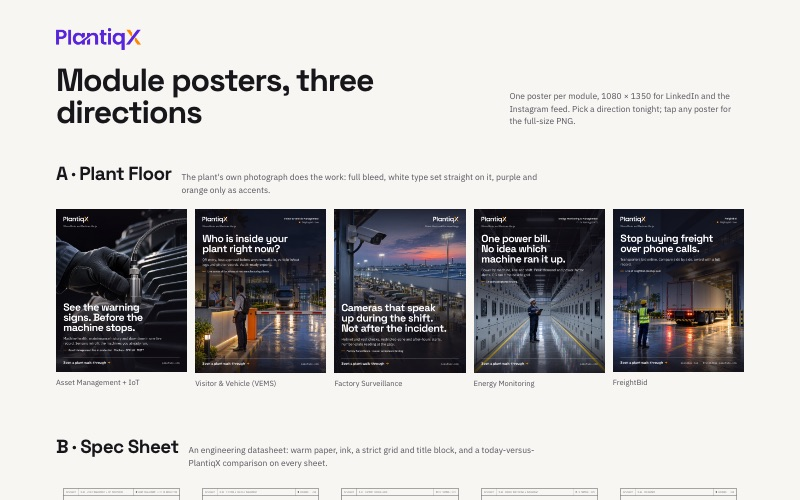
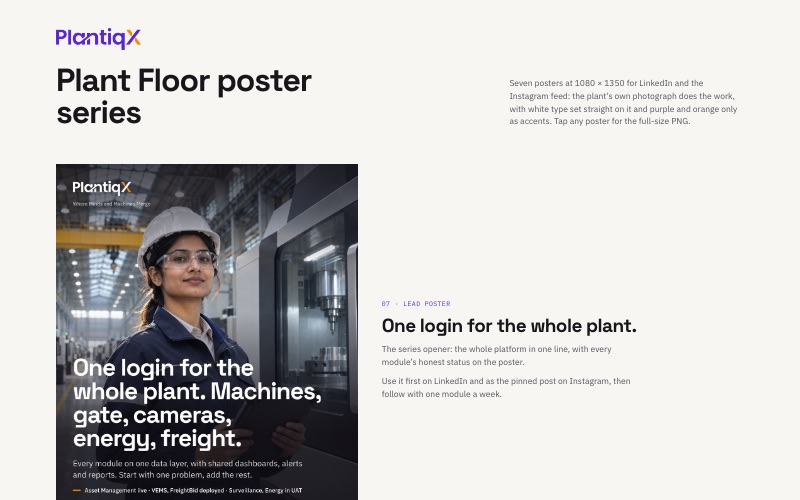
Posters: Plant Floor series only, add platform and Custom IoT posters

diff --git a/posters/index.html b/posters/index.html
@@ -3,7 +3,7 @@
 <head>
 <meta charset="utf-8">
 <meta name="viewport" content="width=device-width, initial-scale=1">
-<title>PlantiqX Poster Options</title>
+<title>PlantiqX Plant Floor Posters</title>
 <link rel="stylesheet" href="../fonts/fonts.css">
 <style>
 :root{--paper:#F7F6F2;--ink:#17161B;--steel:#55525C;--purple:#5925DC;--orange:#FF8700}
@@ -27,50 +27,44 @@ h2{font-family:"Space Grotesk",sans-serif;font-weight:700;font-size:clamp(26px,3
 footer{color:var(--steel);font-size:15px}
 @media (max-width:900px){.grid{grid-template-columns:repeat(3,minmax(0,1fr))}}
 @media (max-width:560px){.wrap{padding:36px 16px 64px}.grid{grid-template-columns:repeat(2,minmax(0,1fr));gap:12px}header{margin-bottom:48px}section{margin-bottom:64px}}
+.lead{display:grid;grid-template-columns:minmax(0,5fr) minmax(0,6fr);gap:48px;align-items:center;margin-bottom:72px}
+.lead a{display:block}.lead img{display:block;width:100%;height:auto;aspect-ratio:4/5;background:#E4E1DA}
+.lead h2{margin-bottom:14px}.lead p{color:var(--steel);max-width:52ch;margin-bottom:12px}
+.lead .k{font-family:"IBM Plex Mono",monospace;font-size:13px;letter-spacing:.06em;text-transform:uppercase;color:var(--purple);margin-bottom:14px;display:block}
+.grid{grid-template-columns:repeat(3,minmax(0,1fr));gap:28px 22px}
+.grid span b{display:block;color:var(--ink);font-weight:600;font-family:"Space Grotesk",sans-serif;font-size:17px;letter-spacing:-.01em}
+@media (max-width:900px){.lead{grid-template-columns:minmax(0,1fr);gap:24px}.grid{grid-template-columns:repeat(2,minmax(0,1fr))}}
+@media (max-width:560px){.grid{grid-template-columns:minmax(0,1fr)}}
 </style>
 </head>
 <body>
 <div class="wrap">
 <header>
   <div><img class="logo" src="../brand/original/plantiqx-logo-color.png" alt="PlantiqX">
-  <h1>Module posters, three directions</h1></div>
-  <p>One poster per module, 1080 × 1350 for LinkedIn and the Instagram feed. Pick a direction tonight; tap any poster for the full-size PNG.</p>
+  <h1>Plant Floor poster series</h1></div>
+  <p>Seven posters at 1080 × 1350 for LinkedIn and the Instagram feed: the plant’s own photograph does the work, with white type set straight on it and purple and orange only as accents. Tap any poster for the full-size PNG.</p>
 </header>
 
-<section>
-  <div class="opt"><h2>A · Plant Floor</h2><p>The plant's own photograph does the work: full bleed, white type set straight on it, purple and orange only as accents.</p></div>
-  <div class="grid">
-    <a href="png/A-1-asset.png"><img src="thumb/A-1-asset.jpg" loading="lazy" alt="Option A, Asset Management poster" loading="lazy"><span>Asset Management + IoT</span></a>
-    <a href="png/A-2-vems.png"><img src="thumb/A-2-vems.jpg" loading="lazy" alt="Option A, Visitor and Vehicle Management poster" loading="lazy"><span>Visitor &amp; Vehicle (VEMS)</span></a>
-    <a href="png/A-3-surveillance.png"><img src="thumb/A-3-surveillance.jpg" loading="lazy" alt="Option A, Factory Surveillance poster" loading="lazy"><span>Factory Surveillance</span></a>
-    <a href="png/A-4-energy.png"><img src="thumb/A-4-energy.jpg" loading="lazy" alt="Option A, Energy Monitoring poster" loading="lazy"><span>Energy Monitoring</span></a>
-    <a href="png/A-5-freightbid.png"><img src="thumb/A-5-freightbid.jpg" loading="lazy" alt="Option A, FreightBid poster" loading="lazy"><span>FreightBid</span></a>
-  </div>
+<section class="lead">
+  <a href="png/A-7-platform.png"><img src="thumb/A-7-platform.jpg" alt="Plant Floor poster: One login for the whole plant"></a>
+  <div><span class="k">07 · Lead poster</span><h2>One login for the whole plant.</h2>
+  <p>The series opener: the whole platform in one line, with every module’s honest status on the poster.</p>
+  <p>Use it first on LinkedIn and as the pinned post on Instagram, then follow with one module a week.</p></div>
 </section>
 
 <section>
-  <div class="opt"><h2>B · Spec Sheet</h2><p>An engineering datasheet: warm paper, ink, a strict grid and title block, and a today-versus-PlantiqX comparison on every sheet.</p></div>
+  <div class="opt"><h2>The modules</h2><p>One poster per module, each on its own premium plant photograph.</p></div>
   <div class="grid">
-    <a href="png/B-1-asset.png"><img src="thumb/B-1-asset.jpg" loading="lazy" alt="Option B, Asset Management poster" loading="lazy"><span>Asset Management + IoT</span></a>
-    <a href="png/B-2-vems.png"><img src="thumb/B-2-vems.jpg" loading="lazy" alt="Option B, Visitor and Vehicle Management poster" loading="lazy"><span>Visitor &amp; Vehicle (VEMS)</span></a>
-    <a href="png/B-3-surveillance.png"><img src="thumb/B-3-surveillance.jpg" loading="lazy" alt="Option B, Factory Surveillance poster" loading="lazy"><span>Factory Surveillance</span></a>
-    <a href="png/B-4-energy.png"><img src="thumb/B-4-energy.jpg" loading="lazy" alt="Option B, Energy Monitoring poster" loading="lazy"><span>Energy Monitoring</span></a>
-    <a href="png/B-5-freightbid.png"><img src="thumb/B-5-freightbid.jpg" loading="lazy" alt="Option B, FreightBid poster" loading="lazy"><span>FreightBid</span></a>
+    <a href="png/A-1-asset.png"><img src="thumb/A-1-asset.jpg" loading="lazy" alt="Asset Management poster"><span><b>Asset Management</b>Live in production</span></a>
+    <a href="png/A-2-vems.png"><img src="thumb/A-2-vems.jpg" loading="lazy" alt="Visitor and Vehicle Management poster"><span><b>Visitor &amp; Vehicle (VEMS)</b>Deployed at two manufacturing clients</span></a>
+    <a href="png/A-3-surveillance.png"><img src="thumb/A-3-surveillance.jpg" loading="lazy" alt="Factory Surveillance poster"><span><b>Factory Surveillance</b>In user acceptance testing</span></a>
+    <a href="png/A-4-energy.png"><img src="thumb/A-4-energy.jpg" loading="lazy" alt="Energy Monitoring poster"><span><b>Energy Monitoring</b>In user acceptance testing</span></a>
+    <a href="png/A-5-freightbid.png"><img src="thumb/A-5-freightbid.jpg" loading="lazy" alt="FreightBid poster"><span><b>FreightBid</b>Deployed · freightbid.plantiqx.com</span></a>
+    <a href="png/A-6-custom.png"><img src="thumb/A-6-custom.jpg" loading="lazy" alt="Custom IoT and Embedded poster"><span><b>Custom IoT &amp; Embedded</b>Built to each plant’s brief</span></a>
   </div>
 </section>
 
-<section>
-  <div class="opt"><h2>C · Signal</h2><p>Colour-coded like the plant floor: each module gets its own safety signal colour, a big confident headline and a hard-cut photograph.</p></div>
-  <div class="grid">
-    <a href="png/C-1-asset.png"><img src="thumb/C-1-asset.jpg" loading="lazy" alt="Option C, Asset Management poster" loading="lazy"><span>Asset Management + IoT</span></a>
-    <a href="png/C-2-vems.png"><img src="thumb/C-2-vems.jpg" loading="lazy" alt="Option C, Visitor and Vehicle Management poster" loading="lazy"><span>Visitor &amp; Vehicle (VEMS)</span></a>
-    <a href="png/C-3-surveillance.png"><img src="thumb/C-3-surveillance.jpg" loading="lazy" alt="Option C, Factory Surveillance poster" loading="lazy"><span>Factory Surveillance</span></a>
-    <a href="png/C-4-energy.png"><img src="thumb/C-4-energy.jpg" loading="lazy" alt="Option C, Energy Monitoring poster" loading="lazy"><span>Energy Monitoring</span></a>
-    <a href="png/C-5-freightbid.png"><img src="thumb/C-5-freightbid.jpg" loading="lazy" alt="Option C, FreightBid poster" loading="lazy"><span>FreightBid</span></a>
-  </div>
-</section>
-
-<footer>Prepared by Busy Fox for PlantiqX · November 2026 · Surveillance and Energy are shown as "Now piloting" (in user acceptance testing).</footer>
+<footer>PlantiqX × Busy Fox · Plant Floor series · November 2026</footer>
 </div>
 </body>
 </html>

diff --git a/index.html b/index.html
@@ -57,7 +57,7 @@ footer{border-top:1px solid var(--line);margin-top:64px;padding-block:22px 40px;
   <div class="wrap">
     <div class="top"><img src="brand/original/plantiqx-logo-white.png" alt="PlantiqX"><span>Prepared by Busy Fox · 18 Nov 2026</span></div>
     <h1>PlantiqX pitch pack</h1>
-    <p>Everything for tonight in one place: a sales deck for plant heads, a brand kit on PlantiqX’s own colours, module posters in three directions, a 90-day social media plan, a market scan and a website audit.</p>
+    <p>Everything for tonight in one place: a sales deck for plant heads, a brand kit on PlantiqX’s own colours, a Plant Floor poster series, a 90-day social media plan, a market scan and a website audit.</p>
     <p class="meta">Where Minds and Machines Merge</p>
   </div>
 </header>
@@ -82,9 +82,9 @@ footer{border-top:1px solid var(--line);margin-top:64px;padding-block:22px 40px;
     <article class="card">
       <a class="thumb" href="posters/"><img src="hub/posters.jpg" alt="Poster gallery"></a>
       <span class="n">03 · Posters</span>
-      <h3>Module posters, three directions</h3>
-      <p>15 posters (5 modules × Plant Floor, Spec Sheet, Signal) at 1080×1350 for LinkedIn and Instagram. Pick a direction tonight.</p>
-      <div class="acts"><a class="btn p" href="posters/">View all 15</a></div>
+      <h3>Plant Floor poster series</h3>
+      <p>Seven posters at 1080×1350 for LinkedIn and Instagram: the whole platform plus one per module, each on a premium plant photograph.</p>
+      <div class="acts"><a class="btn p" href="posters/">View all 7</a></div>
     </article>
     <article class="card">
       <a class="thumb" href="plan/plan.html"><img src="hub/plan.jpg" alt="Social media plan cover"></a>
@@ -116,7 +116,7 @@ footer{border-top:1px solid var(--line);margin-top:64px;padding-block:22px 40px;
       <li><a href="files/logo/PlantiqX_X-symbol_redraw.svg">X mark, vector redraw (SVG)</a></li>
     </ul></div>
     <div><h4>Photography</h4><p>15 premium plant photographs made for this pack (halls, gate, switchgear, dock, steel pour). Every one is used across the deck, kit and posters.</p></div>
-    <div><h4>Next after tonight</h4><p>Pick a poster direction, confirm the plan’s start date and paid tier, share original vector logo files, and approve the website quick wins.</p></div>
+    <div><h4>Next after tonight</h4><p>Confirm the plan’s start date and paid tier, share original vector logo files, and approve the website quick wins.</p></div>
   </section>
 
   <footer><span>PlantiqX × Busy Fox</span><span>Prepared for discussion · not for public distribution</span></footer>

diff --git a/posters/A-6-custom.html b/posters/A-6-custom.html
@@ -1,0 +1,17 @@
+<!doctype html>
+<html lang="en"><head><meta charset="utf-8"><title>PlantiqX A-06 Custom IoT &amp; Embedded</title>
+<link rel="stylesheet" href="common.css"><link rel="stylesheet" href="A.css">
+</head><body>
+<img class="ph" src="../img/12-v-furnace.jpg" alt="">
+<div class="shade t"></div><div class="shade b big"></div>
+<div class="hdr">
+  <div><img class="logo" src="../brand/original/plantiqx-logo-white.png" alt="PlantiqX"><div class="tag">Where Minds and Machines Merge</div></div>
+  <div class="stat">Custom IoT &amp; Embedded<br><span class="m"><span class="mk live"></span>Built to your brief</span></div>
+</div>
+<div class="copy bottom">
+  <h1>Your plant’s problem isn’t in a catalogue. <em>So we build around it.</em></h1>
+  <p>Sensors, embedded controllers and gateways designed for your process, proved on test jigs before they reach your floor.</p>
+  <div class="spec"><span class="sw"></span>Custom IoT &amp; embedded · furnace monitoring deployed</div>
+</div>
+<div class="ftr"><div class="cta">Book a plant walk-through<b>→</b></div><div class="url">plantiqx.com</div></div>
+</body></html>

diff --git a/posters/A-7-platform.html b/posters/A-7-platform.html
@@ -1,0 +1,14 @@
+<!doctype html>
+<html lang="en"><head><meta charset="utf-8"><title>PlantiqX A-07 One platform</title>
+<link rel="stylesheet" href="common.css"><link rel="stylesheet" href="A.css">
+</head><body>
+<img class="ph" src="../img/14-v-engineer.jpg" alt="">
+<div class="shade t"></div><div class="shade b big"></div>
+<div class="hdr"><div><img class="logo" src="../brand/original/plantiqx-logo-white.png" alt="PlantiqX"><div class="tag">Where Minds and Machines Merge</div></div><div></div></div>
+<div class="copy bottom">
+  <h1>One login for the whole plant. <em>Machines, gate, cameras, energy, freight.</em></h1>
+  <p>Every module on one data layer, with shared dashboards, alerts and reports. Start with one problem, add the rest.</p>
+  <div class="spec"><span class="sw"></span>Asset Management live · VEMS, FreightBid deployed · Surveillance, Energy in UAT</div>
+</div>
+<div class="ftr"><div class="cta">Book a plant walk-through<b>→</b></div><div class="url">plantiqx.com</div></div>
+</body></html>
